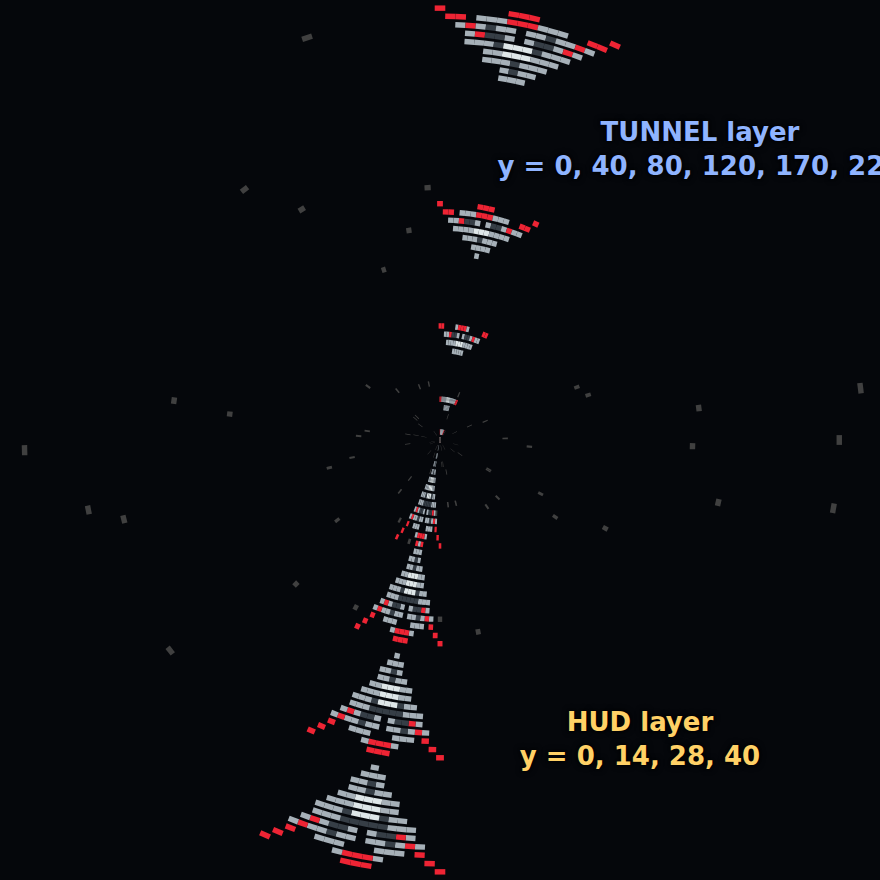
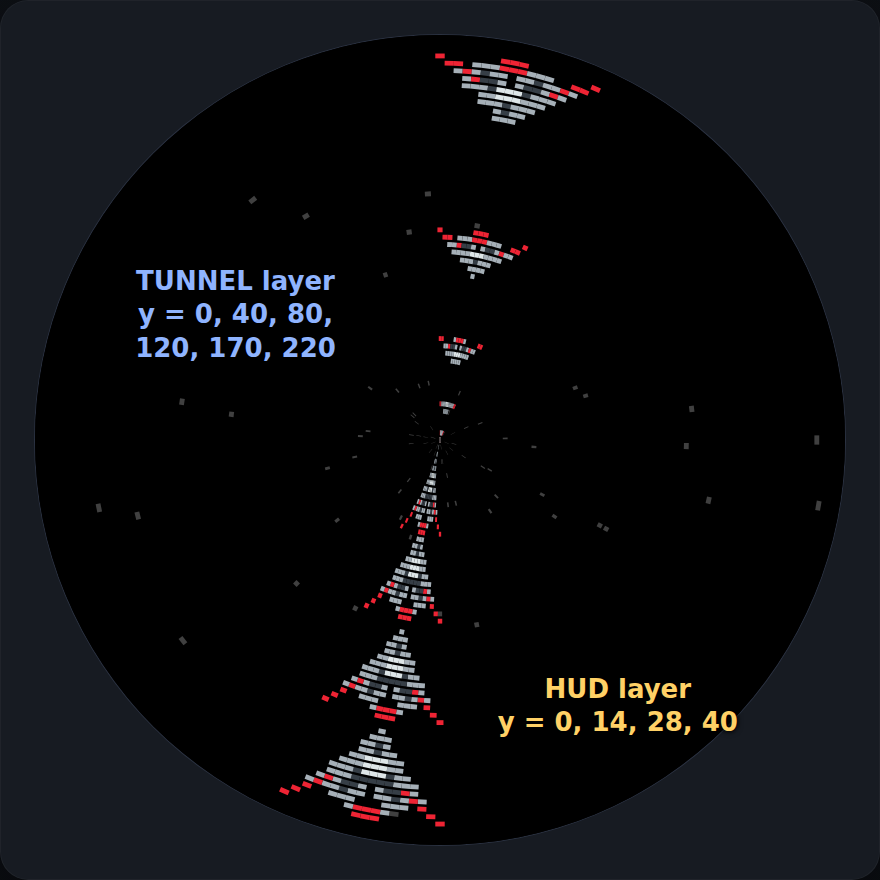
Retake the docs screenshots with the dark stage, and document how
All emulator screenshots are now of the stage (dark panel, black disc) so the
edge of the fan shows. The harness captures the stage element, isolates each run
in its own browser context, can use WebGL (RENDERER=webgl|shader, GPU=1,
HEADFUL=1), and prints a catalogue of every image with --list. The README lists
the images and says how to retake them on a machine with a real GPU.

Claude-Session: https://claude.ai/code/session_01Am6eVYV27DcbeE9tF3fxdW

diff --git a/tools/vs2_doc_images/README.md b/tools/vs2_doc_images/README.md
@@ -1,37 +1,130 @@
 # VS2 documentation images
 
 Regenerates everything in `docs/vs2/images/`: emulator screenshots of the
-tutorial examples, and the diagrams.
+tutorial examples and of the finished tutorial game, and the diagrams.
 
-```sh
-# 1. serve the web emulator
-cd web && python3 -m http.server 8765
+The committed set was taken with the emulator's **2D canvas fallback** in
+headless Chromium, because that machine had no usable WebGL. The WebGL renderer
+looks nicer (soft glow, round LEDs), so retake them on a machine with a GPU; see
+[Retaking everything with WebGL](#retaking-everything-with-webgl).
 
-# 2. in another shell
-cd tools/vs2_doc_images
-npm install
-node capture.mjs            # everything
-node capture.mjs pools      # one example or diagram, by name
-```
+## The images
 
-Needs a Chromium that Playwright can drive. Set `CHROMIUM=/path/to/chromium`
-if it is not at `/opt/pw-browsers/chromium`; `BASE` and `OUT` override the
-emulator URL and the output directory.
+This table comes from `node capture.mjs --list`.
+
+| Image | Kind | Source | Command | Used in |
+|---|---|---|---|---|
+| `display-axes.png` | diagram | `diagrams/display-axes.svg` | `node capture.mjs display-axes` | tutorial/display.md |
+| `draw-order.png` | diagram | `diagrams/draw-order.svg` | `node capture.mjs draw-order` | tutorial/display.md |
+| `layer-tree.png` | diagram | `diagrams/layer-tree.svg` | `node capture.mjs layer-tree` | reference/drawables.md |
+| `scene-lifecycle.png` | diagram | `diagrams/scene-lifecycle.svg` | `node capture.mjs scene-lifecycle` | reference/scene.md, tutorial/first-game.md |
+| `strip-ship.png` | diagram | `diagrams/strip-ship.svg` | `node capture.mjs strip-ship` | tutorial/first-game.md |
+| `strip-terrain.png` | diagram | `diagrams/strip-terrain.svg` | `node capture.mjs strip-terrain` | tutorial/tilemaps-and-text.md |
+| `first-game.png` | emulator screenshot | `examples/first.py` | `node capture.mjs first` | tutorial/first-game.md |
+| `first-game-moved.png` | emulator screenshot | `examples/first.py` | `node capture.mjs first` | tutorial/first-game.md |
+| `display-angles.png` | emulator screenshot, annotated | `examples/angles.py` | `node capture.mjs angles` | tutorial/display.md |
+| `display-projections.png` | emulator screenshot, annotated | `examples/projections.py` | `node capture.mjs projections` | tutorial/display.md |
+| `display-layers.png` | emulator screenshot | `examples/layers.py` | `node capture.mjs layers` | tutorial/display.md |
+| `labels-flips.png` | emulator screenshot, annotated | `examples/flips.py` | `node capture.mjs flips` | tutorial/tilemaps-and-text.md |
+| `game-title.png` | emulator screenshot | `games/demos/tutorial_game (played)` | `node capture.mjs game` | tutorial/scenes-and-input.md |
+| `game-play.png` | emulator screenshot | `games/demos/tutorial_game (played)` | `node capture.mjs game` | tutorial/index.md, tutorial/tilemaps-and-text.md |
+| `sprites-frames.png` | emulator screenshot, annotated | `examples/frames.py` | `node capture.mjs frames` | tutorial/sprites.md |
+| `pools.png` | emulator screenshot | `examples/pools.py` | `node capture.mjs pools` | tutorial/pools.md |
+| `tilemaps.png` | emulator screenshot | `examples/tilemap.py` | `node capture.mjs tilemap` | tutorial/tilemaps-and-text.md |
+| `labels.png` | emulator screenshot | `examples/labels.py` | `node capture.mjs labels` | tutorial/tilemaps-and-text.md |
+| `budgets-legibility.png` | emulator screenshot, annotated | `examples/legibility.py` | `node capture.mjs legibility` | tutorial/budgets.md |
+
+Notes on specific images:
+
+- **`game-play.png`** is a real game being played with scripted key presses, and
+  the enemies appear at random places. Run `node capture.mjs game` again until the
+  picture shows enemies at several depths, a shot in flight and a score above
+  `00000` (the script fires a few shots, so a hit is likely but not certain).
+  `game-title.png` is written by the same run.
+- **Annotated** images have text drawn over the screenshot (`labels` in
+  `capture.mjs`). The text is placed in empty parts of the disc and in coordinates
+  of an 880 pixel square, so it should still sit in the same place with the WebGL
+  renderer. Check each one by eye after a retake: the WebGL LEDs are a little
+  larger and softer, and a label must not overlap a drawing.
+- **`first-game-moved.png`** holds the left button for 700 ms, so the ship's
+  position depends on the emulator's frame rate. Anywhere on the upper left of
+  the disc is fine.
+- The **diagrams** are SVG, drawn in the same browser, and do not depend on the
+  renderer. They only need regenerating when an SVG changes.
+
+## Retaking everything with WebGL
+
+You need Node 18 or newer, Python 3, a Chrome or Chromium that has WebGL (any
+desktop browser install does), and a checkout of this repository.
+
+1. **Build what the browser runs.** The emulator runs the Python in
+   `web/runtime-bundle.json`, and the ROMs it contains were built from the games'
+   PNGs, so regenerate both from the current tree first:
+
+   ```sh
+   make generate-roms        # needs Python 3.12+ with Pillow, numpy and PyYAML
+   make web-runtime-bundle
+   ```
+
+   Skipping this shows the old runtime. The tutorial game, in particular, needs the
+   director fix that gives switched-to scenes their app markers, or its game
+   scene will render through the legacy sprite path.
+
+2. **Serve the web emulator**, and leave it running:
+
+   ```sh
+   cd web && python3 -m http.server 8765
+   ```
+
+3. **Install the script's one dependency** (once):
+
+   ```sh
+   cd tools/vs2_doc_images && npm install
+   ```
+
+   If you do not have a Chrome you can point at, let Playwright download one:
+   `npx playwright-core install chromium` (then leave `CHROMIUM` unset).
+
+4. **Take the screenshots** with the WebGL renderer. `GPU=1` stops the script from
+   forcing Chromium onto its software renderer, and `RENDERER` picks what draws
+   the disc:
+
+   ```sh
+   # the WebGL renderer, with the CPU compositor (what most people see)
+   GPU=1 RENDERER=webgl CHROMIUM=/path/to/chrome node capture.mjs
+
+   # or the GPU shader compositor
+   GPU=1 RENDERER=shader CHROMIUM=/path/to/chrome node capture.mjs
+   ```
+
+   Add `HEADFUL=1` to watch the browser window if a run hangs or the picture is
+   blank, since some systems only give WebGL to a visible window. One image or
+   example at a time works too: `node capture.mjs pools tilemap`.
+
+5. **Review** every image in `docs/vs2/images/` (the table above lists them),
+   rerun `game` until `game-play.png` is a good frame, then build the docs
+   (`pip install -r docs/vs2/requirements.txt && sphinx-build -W docs/vs2 /tmp/out`)
+   and commit the images.
+
+Other environment variables: `BASE` (emulator URL, default
+`http://localhost:8765`), `OUT` (output directory, default `docs/vs2/images`),
+`CHROMIUM` (browser binary), `DEBUG=1` (prints the page layout before each shot).
+`RENDERER=2d`, the default, is the headless-friendly canvas fallback.
 
 ## How it works
 
 - `examples/<name>.py` are small scenes written against the VS2 API. Each is
-  loaded into the browser emulator's workspace as `games/docs/<name>`
-  (nothing is written into the repo's `games/` tree), its ROM is built in the
-  browser, the runtime is restarted into it, and the polar canvas is saved
-  after the scripted key presses listed in `capture.mjs`. Some screenshots get
-  text labels drawn over them (`labels` in `capture.mjs`).
+  loaded into the browser emulator's workspace as `games/docs/<name>` (nothing is
+  written into the repo's `games/` tree), its ROM is built in the browser, the
+  runtime is restarted into it, and the stage is saved after the scripted key
+  presses listed in `capture.mjs`. Some screenshots get text labels drawn over
+  them (`labels` in `capture.mjs`).
 - The `game` entry loads the finished tutorial game from `games/demos/tutorial_game`
-  as it is in the repo, and plays it with scripted key presses. The browser runs
-  the Python in `web/runtime-bundle.json`, so run `make web-runtime-bundle` first if
-  you changed anything under `apps/micropython`, or the screenshots will show the
-  old runtime.
-- `diagrams/*.svg` are rendered to PNG with the same browser. `{{art:...}}`
-  in an SVG is replaced with a PNG from `games/` as a data URI.
+  as it is in the repo, and plays it with scripted key presses.
+- A screenshot is of the emulator's stage (the `.stage-display` element: the dark
+  panel with the black disc inset in it), so the edge of the fan is visible. The
+  base-controls preview and the fullscreen button are hidden for the shot.
+- `diagrams/*.svg` are rendered to PNG with the same browser. `{{art:...}}` in an
+  SVG is replaced with a PNG from `games/` as a data URI.
 - The art comes from the games under `games/alecu/` (`ART` in `capture.mjs`),
   except `art/clouds.png`, which `make_clouds.py` draws for the layers example.
